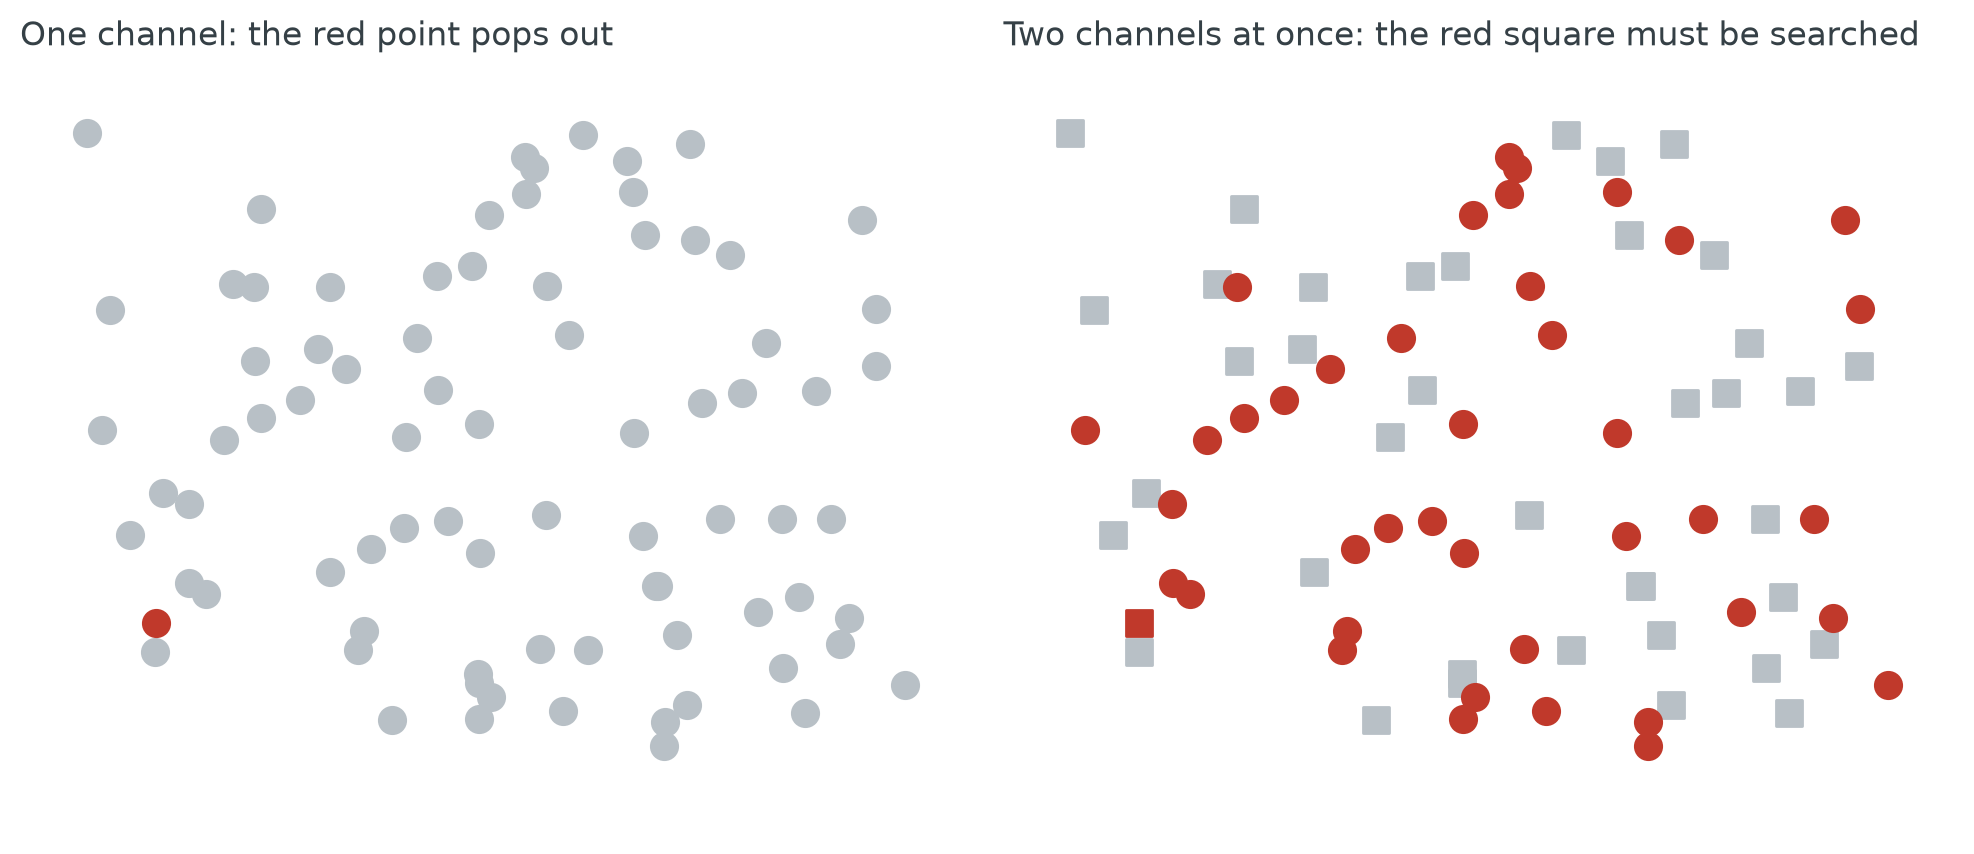
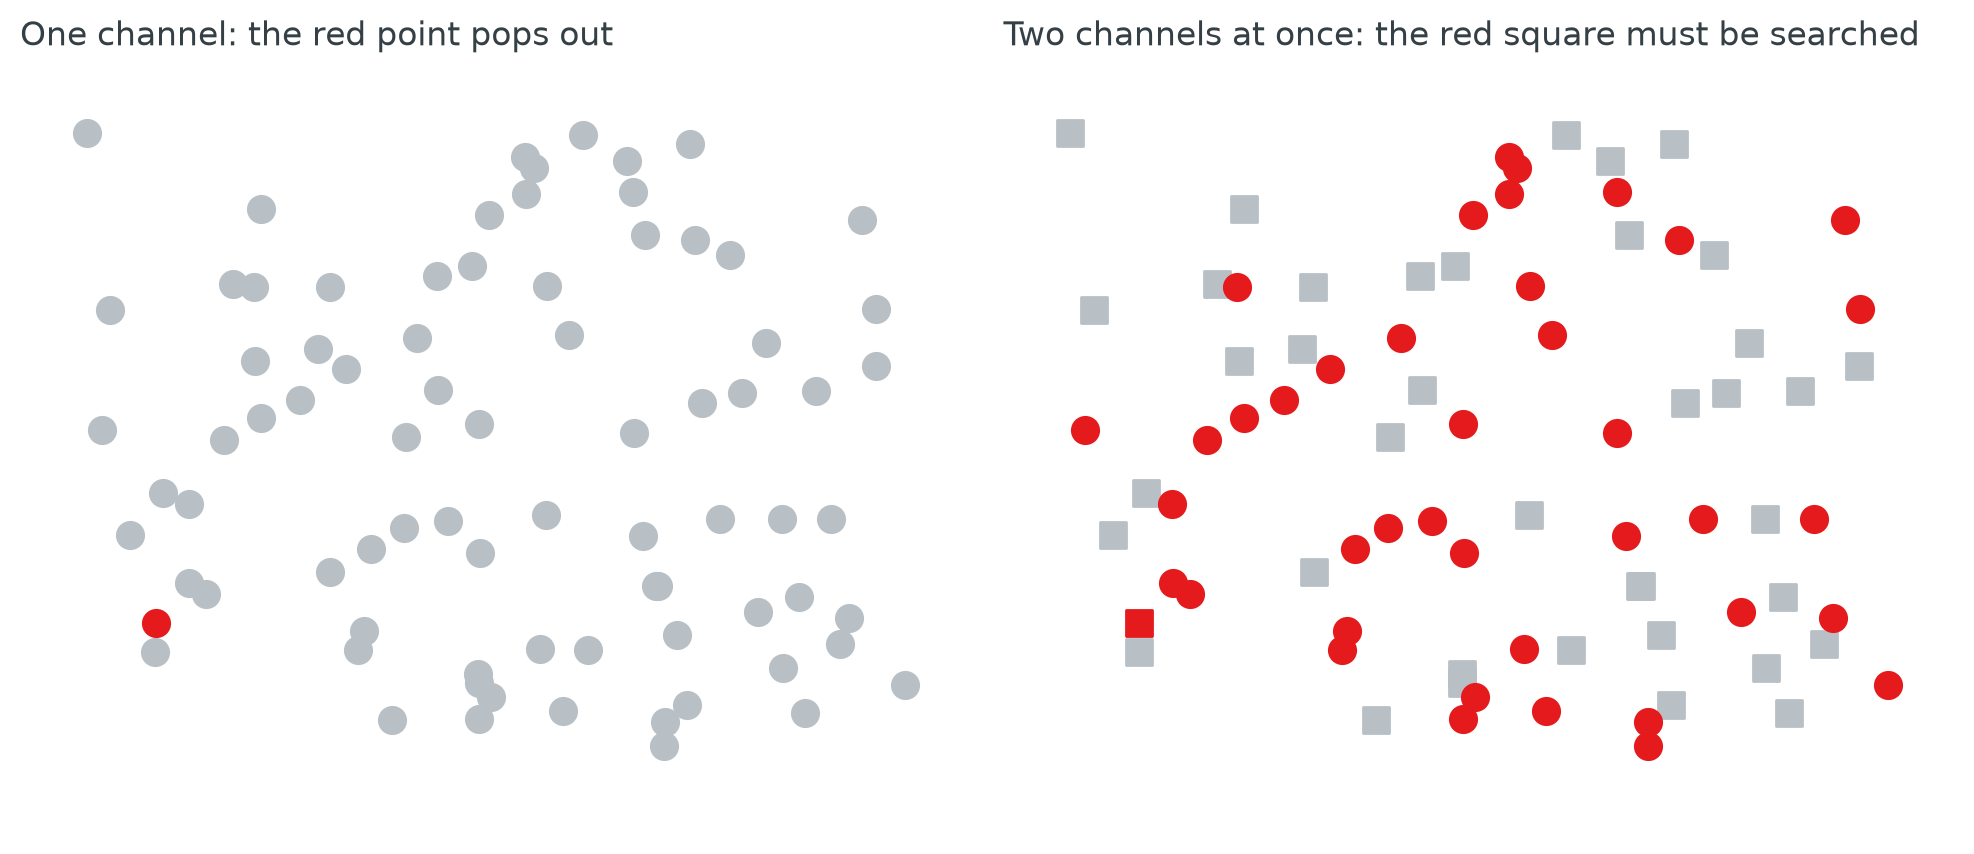
Lecture 3: a brighter red in the pop-out figure

diff --git a/scripts/figures_lec3.py b/scripts/figures_lec3.py
@@ -173,18 +173,19 @@ def encoding_examples(df):
 def popout(seed=3):
     """Colour pops out; a conjunction of colour and shape does not."""
     rng = np.random.default_rng(seed)
+    bright = "#e41a1c"   # brighter than RED, so the target stands out
     xy = rng.uniform(0, 1, size=(80, 2))
     target, others = xy[0], xy[1:]
     fig, (single, conj) = plt.subplots(1, 2, figsize=(10, 4.4), dpi=200)
 
     single.scatter(others[:, 0], others[:, 1], s=90, color="#b8c0c6")
-    single.scatter(*target, s=90, color=RED)
+    single.scatter(*target, s=90, color=bright)
     single.set_title("One channel: the red point pops out", fontsize=12, loc="left")
 
     half = len(others) // 2
     conj.scatter(others[:half, 0], others[:half, 1], s=90, color="#b8c0c6", marker="s")
-    conj.scatter(others[half:, 0], others[half:, 1], s=90, color=RED, marker="o")
-    conj.scatter(*target, s=90, color=RED, marker="s")
+    conj.scatter(others[half:, 0], others[half:, 1], s=90, color=bright, marker="o")
+    conj.scatter(*target, s=90, color=bright, marker="s")
     conj.set_title("Two channels at once: the red square must be searched", fontsize=12, loc="left")
 
     for ax in (single, conj):
